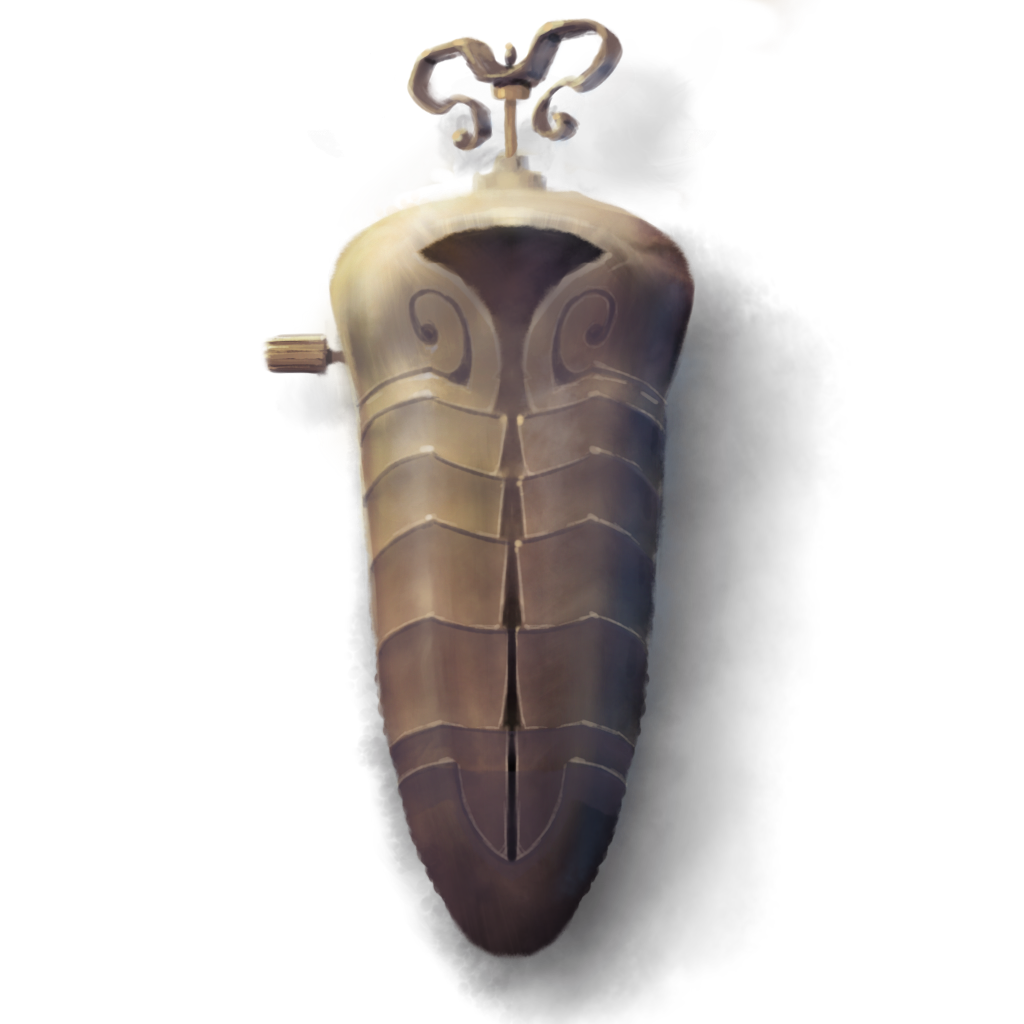
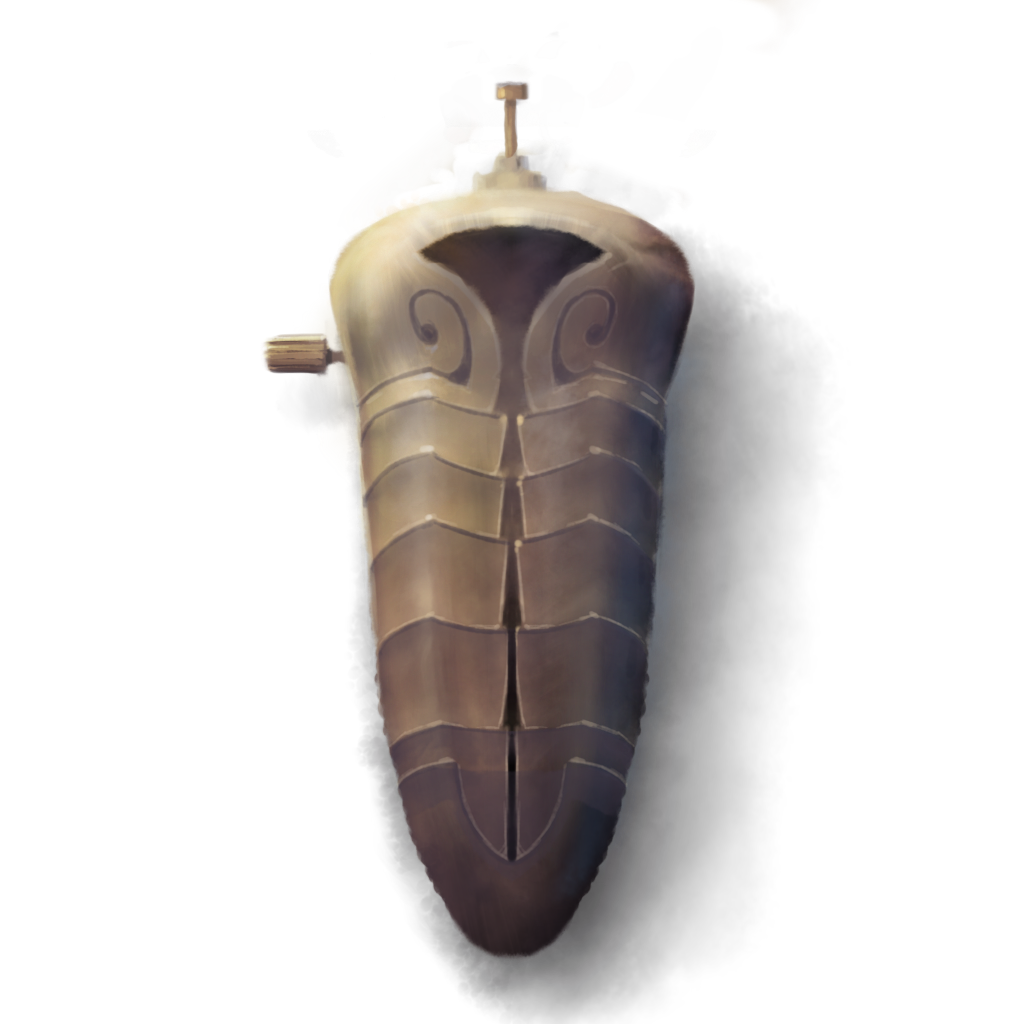
Added windup animation to the pomodoro timer

Changed region(s): [[0.375, 0.0, 0.6875, 0.1875]]

diff --git a/client/theme-overrides/pomodoro/pomodoro.css b/client/theme-overrides/pomodoro/pomodoro.css
@@ -27,6 +27,8 @@ body {
   background-position-x: center;
   background-position-y: calc(100% + 14vmin);
   background-color: transparent;
+  
+  transition: height 0.666s ease-out;
 }
 
 .pomodoro-time-remaining,
@@ -45,4 +47,34 @@ body {
 
 .pomodoro[data-state='break'] .pomodoro-progress-indicator-bar.vertical {
   background-image: url('./timer-fg-break.png');
+}
+
+@keyframes six-frame-sprite {
+  0% {
+    background-position-y: 0;
+  }
+  100% {
+    background-position-y: 100%;
+  }
+}
+
+.pomodoro .pomodoro-progress-indicator:before {
+  position: absolute;
+  content: ' ';
+  width: 37.5vmin;
+  height: 25vmin;
+
+  top: 0;
+  left: calc(50% - 18.75vmin);
+  
+  background-image: url('./timer-thingy-sheet.png');
+  background-position-x: 0;
+  background-position-y: 0;
+  background-size: 100%;
+
+  animation: six-frame-sprite 1.666s steps(6, jump-none) 0s infinite;
+}
+
+.pomodoro[data-state='stopped'] .pomodoro-progress-indicator:before {
+  animation: none;
 }
